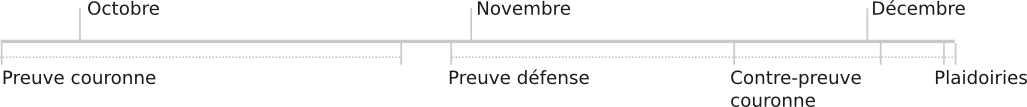
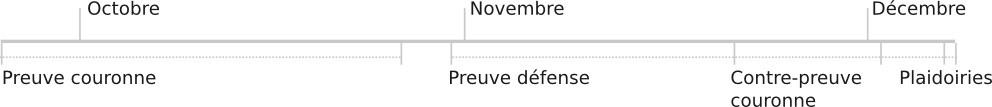
prototype 13: boutons plus gros

diff --git a/index.html b/index.html
@@ -182,8 +182,8 @@
 			top: 0;
 			background-image: url('timeline3.png');
 			background-repeat: no-repeat;
-			background-position: 60px 0px;
-			background-size: 510px;
+			background-position: 102px 0px;
+			background-size: 485px;
 		}
 		.slider{
 			margin-top: 8px;
@@ -373,7 +373,7 @@
 			size: 450,
 			max: sortedDates.length,
 			transitionDuration: 110000,
-			handleSize: 15
+			handleSize: 30
 		})
 		.on('change', function(index){
 			renderTimeSlice(index);
